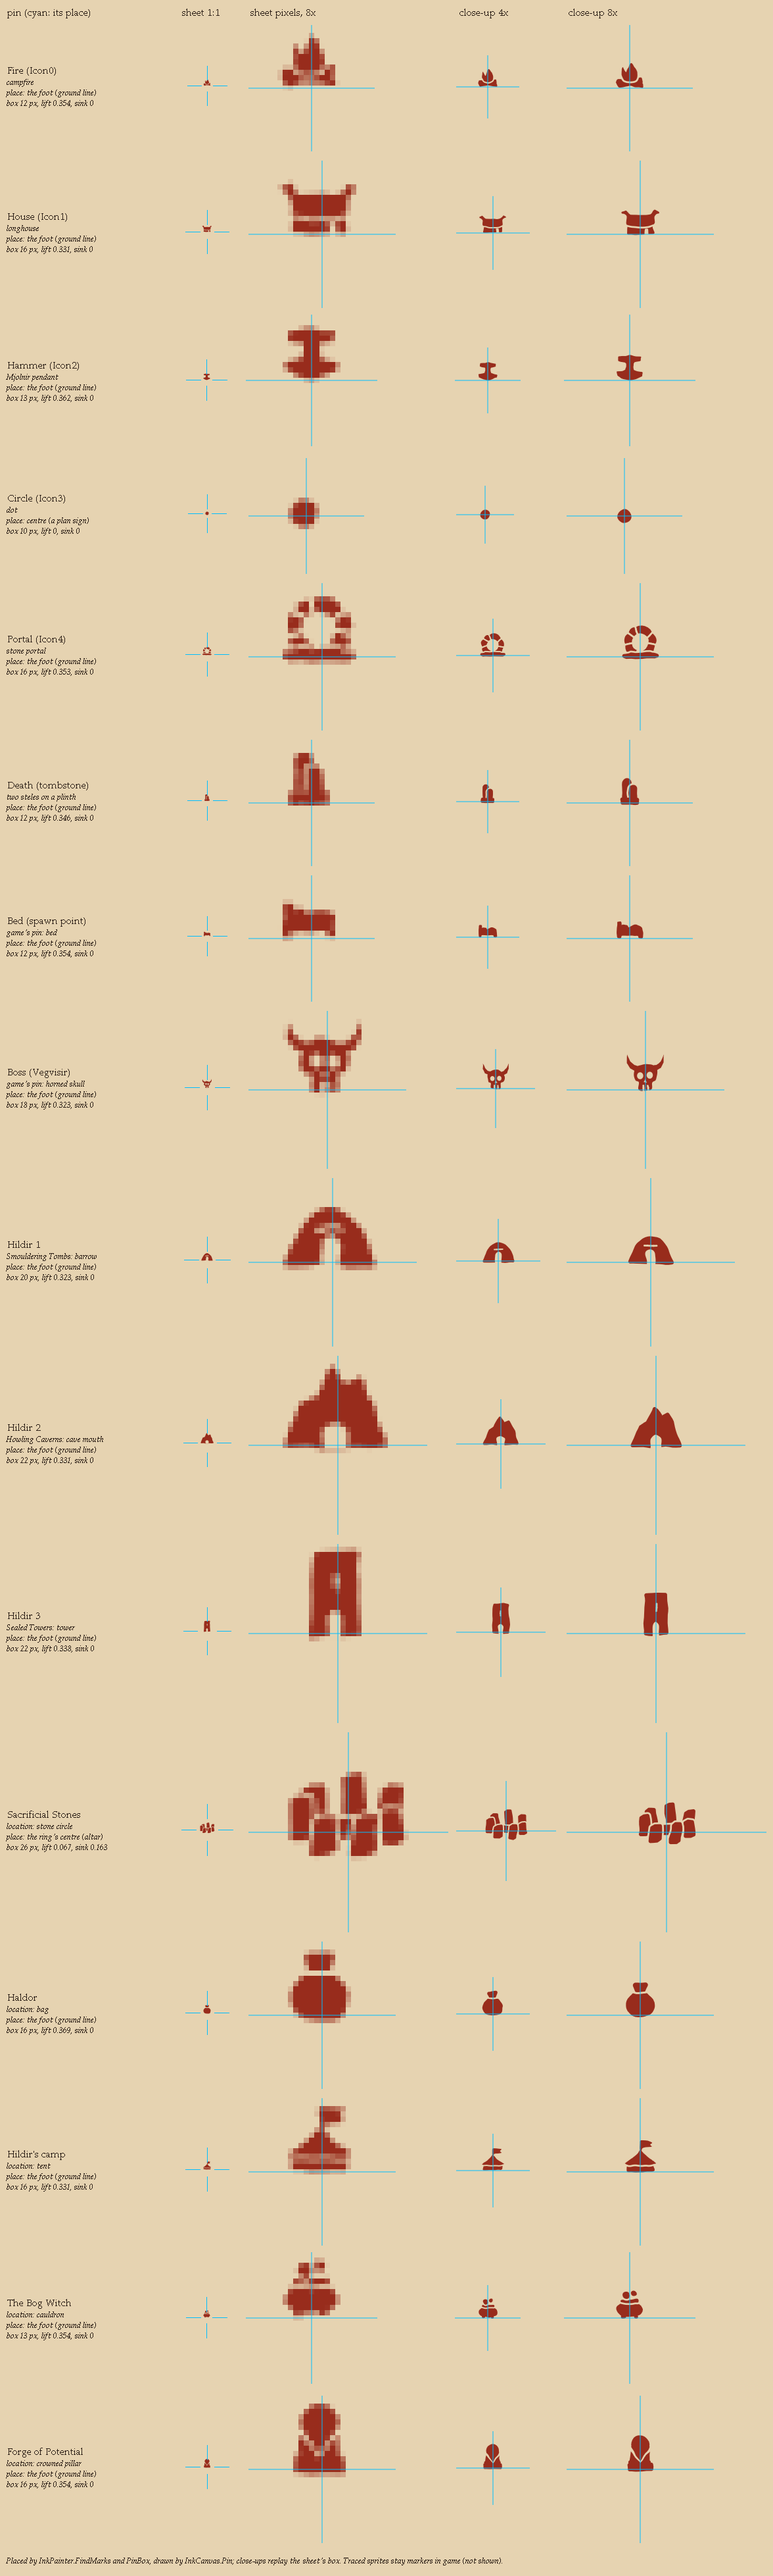
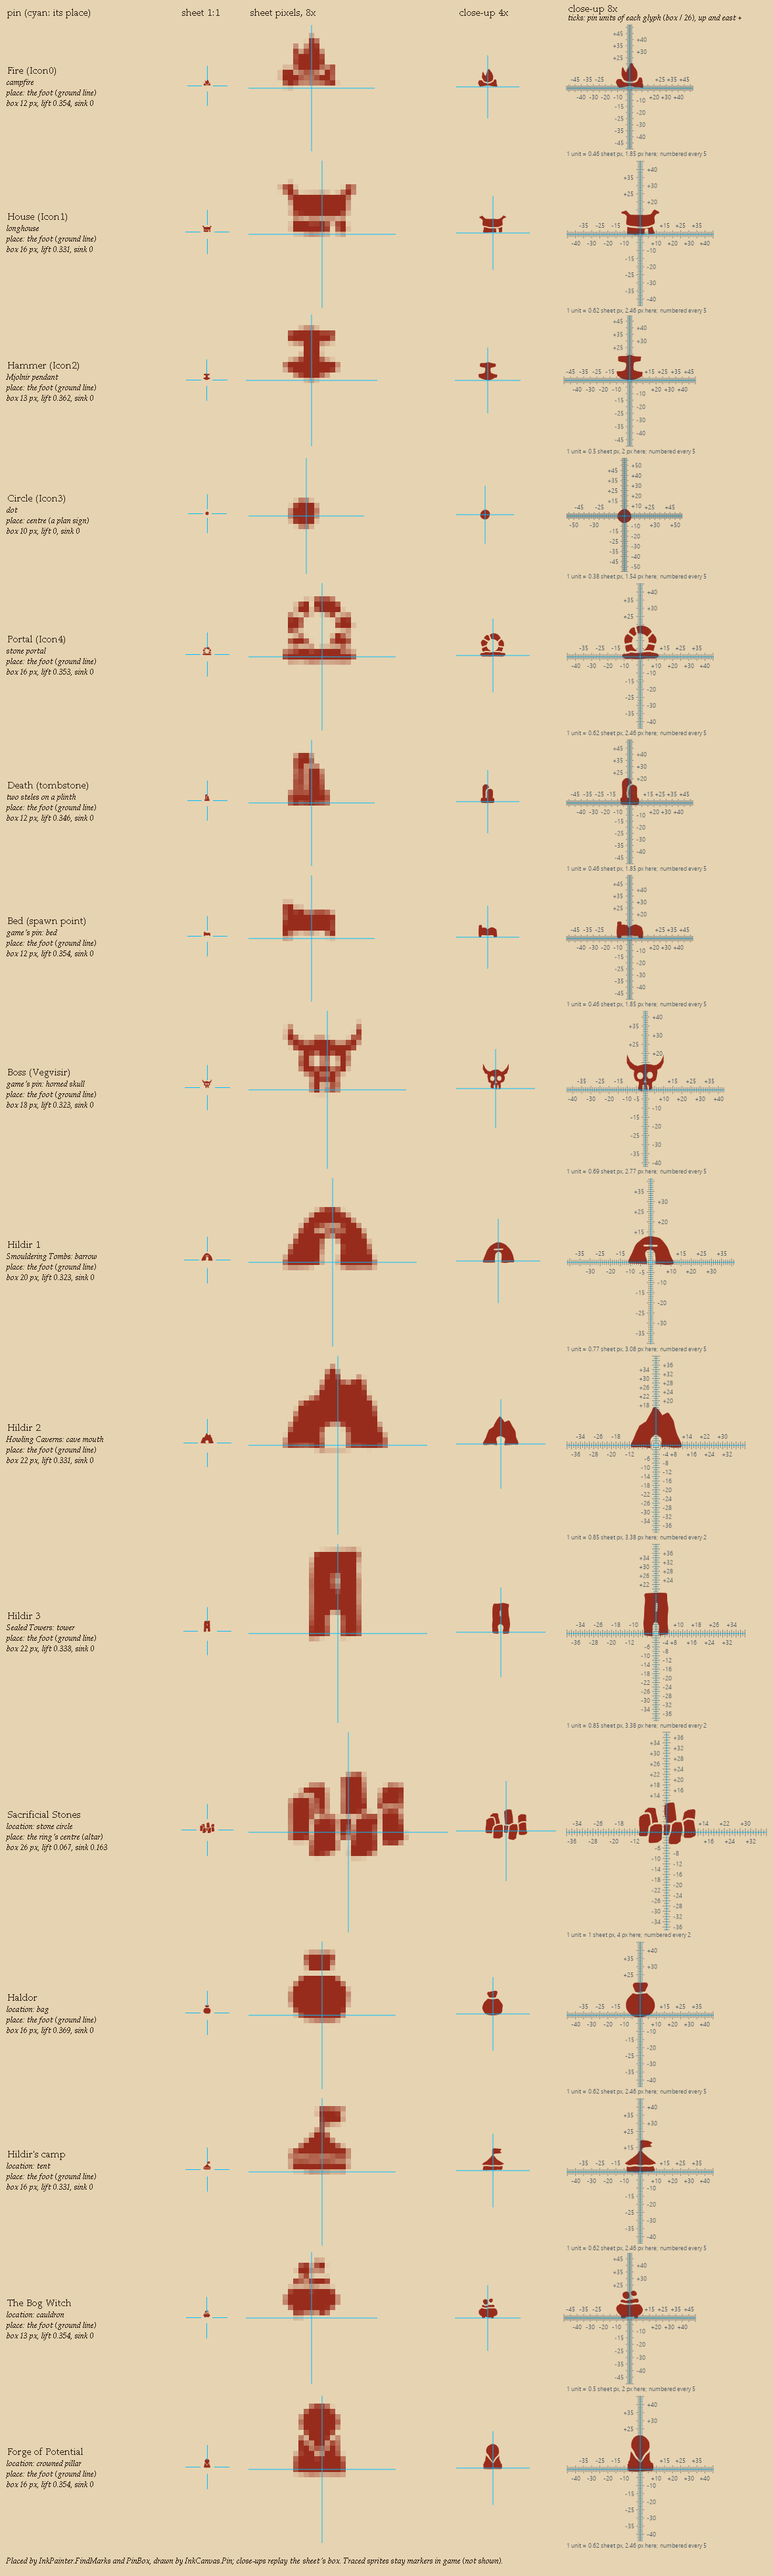
Add pin-unit rulers to the pin reference's close-up column
The close-up 8x column of the pin reference board gets graduated ticks
along both crosshair lines at every pin unit of each glyph, numbered with
signs (up and east +) and the scale given per row, so a shift can be
named in the glyph's own units. Preview only.

Changed region(s): [[0.7347, 0.0, 0.8878, 0.7481], [0.7347, 0.7481, 0.8878, 0.9974]]

diff --git a/tools/preview/Program.cs b/tools/preview/Program.cs
@@ -1,4 +1,5 @@
 using System;
+using System.Collections.Generic;
 using System.Diagnostics;
 using System.Drawing;
 using System.Drawing.Imaging;
@@ -601,6 +602,20 @@ internal static class Program
     // The pin location mark (--pinref, --pincross): a cyan that no ink or wash of the map uses.
     static readonly Color32 s_crossColour = new Color32(0, 190, 255, 255);
 
+    // The pin-unit ruler on --pinref's 8x close-up crosshair: a slate grey, half strength, so
+    // the red glyph and the cyan cross stay readable under it.
+    static readonly Color32 s_tickColour = new Color32(50, 70, 90, 255);
+    const float TickAlpha = 0.55f;
+
+    // A number on the pin-unit ruler, at (x, y) on the board: side 0 centred under, 1 centred
+    // over, 2 left-aligned beside, 3 right-aligned beside the point.
+    struct TickLabel
+    {
+        public float m_x, m_y;
+        public string m_text;
+        public int m_side;
+    }
+
     // A crosshair on (x, y) in continuous output pixels (pixel i spans i to i + 1, y down): two
     // lines width pixels wide, each pixel covered by its overlap with the line, from gap to
     // reach either side of the point. plot(column, row, coverage) blends one pixel.
@@ -713,6 +728,31 @@ internal static class Program
         }
         void Cross(float x, float y, float gap, float reach) =>
             Crosshair((i, j, a) => Blend(i, j, s_crossColour, a), x, y, gap, reach, 1f);
+        // A 1 px tick across a crosshair line, at continuous x (a vertical tick, from y0 to y1)
+        // or continuous y (a horizontal one), split over the two pixels it straddles.
+        void Tick(bool vertical, float at, float from, float to)
+        {
+            float l = at - 0.5f;
+            int i = (int)Math.Floor(l);
+            float f = l - i;
+            for (int j = (int)Math.Round(from); j < (int)Math.Round(to); j++)
+            {
+                if (vertical)
+                {
+                    Blend(i, j, s_tickColour, TickAlpha * (1f - f));
+                    Blend(i + 1, j, s_tickColour, TickAlpha * f);
+                }
+                else
+                {
+                    Blend(j, i, s_tickColour, TickAlpha * (1f - f));
+                    Blend(j, i + 1, s_tickColour, TickAlpha * f);
+                }
+            }
+        }
+        float pinUnits = Convert.ToSingle(glyphs.GetField("PinUnits", All).GetValue(null));
+        var labels = new List<TickLabel>();
+        var rulers = new string[rows.Length];
+        var rulerTops = new int[rows.Length];
 
         var notes = new string[rows.Length][];
         for (int r = 0; r < rows.Length; r++)
@@ -754,13 +794,77 @@ internal static class Program
             {
                 int scale = closeUps[k];
                 object canvas = canvasNew.Invoke(new object[] { d * scale, d * scale, left, north, (float)scale });
-                Set(canvas, "m_penScale", 1f / Mathf.Sqrt(Mathf.Max(1f, scale * 0.5f)));
+                float penScale = 1f / Mathf.Sqrt(Mathf.Max(1f, scale * 0.5f));
+                Set(canvas, "m_penScale", penScale);
                 pinOn.Invoke(canvas, new object[] { glyph, placed.x, placed.y, placed.z, false });
                 int cx = k == 0 ? c3 : c4, cy = y0 + (d * magnify - d * scale) / 2;
                 Lay(canvas, cx, cy, 1);
                 float qx = (px - left) * scale, qy = (py - north) * scale;
                 Cross(cx + qx, cy + qy, 0f, d * scale * 0.5f);
                 if (k != closeUps.Length - 1) continue;
+                // The pin-unit ruler: InkCanvas.Pin draws the glyph's PinUnits square into
+                // round(size * pen scale * scale) pixels, so that over PinUnits is one unit here.
+                // Ticks every unit (every quarter where those stay 3 px apart), a long tick and a
+                // number every label step, the smallest of 1, 2, 5, 10 at least 6.5 px apart
+                // (numbers alternate sides of the line, so a side's stay apart twice that).
+                int pixels = Math.Max(4, Mathf.RoundToInt(placed.z * penScale * scale));
+                float unit = pixels / pinUnits;
+                int step = 10;
+                foreach (int s in new[] { 1, 2, 5, 10 })
+                    if (s * unit >= 6.5f)
+                    {
+                        step = s;
+                        break;
+                    }
+                float ox0 = cx + qx, oy0 = cy + qy, span = d * scale * 0.5f;
+                int quarters = unit * 0.25f >= 3f ? 4 : 1;
+                var rowLabels = new List<Rect>();
+                for (int q = -(int)(span / unit * quarters); q <= (int)(span / unit * quarters); q++)
+                {
+                    if (q == 0) continue;
+                    float off = q * unit / quarters;
+                    bool whole = q % quarters == 0;
+                    int at = q / quarters;
+                    bool labelled = whole && at % step == 0;
+                    float len = labelled ? 6f : whole ? 3f : 1.5f;
+                    // Across the level line (x right) and the upright one (y down, so up is +at).
+                    Tick(true, ox0 + off, oy0 - 0.5f - len, oy0 - 0.5f);
+                    Tick(true, ox0 + off, oy0 + 0.5f, oy0 + 0.5f + len);
+                    Tick(false, oy0 - off, ox0 - 0.5f - len, ox0 - 0.5f);
+                    Tick(false, oy0 - off, ox0 + 0.5f, ox0 + 0.5f + len);
+                    if (!labelled || Math.Abs(off) > span - 8f) continue;
+                    bool flip = (at / step) % 2 != 0;
+                    string text = at.ToString("+0;-0", System.Globalization.CultureInfo.InvariantCulture);
+                    float wide = 5f * text.Length;
+                    float lx = ox0 + off, ly = flip ? oy0 - 7f : oy0 + 7f;
+                    TryLabel(new Rect(lx - wide * 0.5f, flip ? ly - 10f : ly, wide, 10f), lx, ly, text, flip ? 1 : 0);
+                    lx = flip ? ox0 - 8f : ox0 + 8f;
+                    ly = oy0 - off;
+                    TryLabel(new Rect(flip ? lx - wide : lx, ly - 5f, wide, 10f), lx, ly, text, flip ? 3 : 2);
+                }
+                // A number over the glyph's ink would hide what it measures, one across the other
+                // line or another number would read as one: each is left out there.
+                void TryLabel(Rect box, float x, float y, string text, int side)
+                {
+                    if (box.xMin < ox0 + 2f && box.xMax > ox0 - 2f) return;
+                    if (box.yMin < oy0 + 2f && box.yMax > oy0 - 2f) return;
+                    foreach (Rect other in rowLabels)
+                        if (other.Overlaps(new Rect(box.x - 2f, box.y - 1f, box.width + 4f, box.height + 2f))) return;
+                    if (!ClearOfInk(box.xMin, box.yMin, box.xMax, box.yMax)) return;
+                    rowLabels.Add(box);
+                    labels.Add(new TickLabel { m_x = x, m_y = y, m_text = text, m_side = side });
+                }
+                bool ClearOfInk(float x0, float y0, float x1, float y1)
+                {
+                    var plane = (byte[])Get(canvas, "m_pinInk");
+                    int side = d * scale;
+                    for (int y = (int)Math.Floor(y0 - cy) - 1; y <= (int)Math.Ceiling(y1 - cy) + 1; y++)
+                        for (int x = (int)Math.Floor(x0 - cx) - 1; x <= (int)Math.Ceiling(x1 - cx) + 1; x++)
+                            if (x >= 0 && y >= 0 && x < side && y < side && plane[y * side + x] > 24) return false;
+                    return true;
+                }
+                rulerTops[r] = cy + d * scale;
+                rulers[r] = FormattableString.Invariant($"1 unit = {box / pinUnits:0.##} sheet px, {unit:0.##} px here; numbered every {step}");
                 // The ink's extent round the place, in this close-up's pixels: the lowest inked
                 // row (the foot's outline) below it, the box of the ink's columns about it.
                 var ink = (byte[])Get(canvas, "m_pinInk");
@@ -809,7 +913,26 @@ internal static class Program
                 g.DrawString("sheet 1:1", font, ink, c1 + 4, 8);
                 g.DrawString("sheet pixels, 8x", font, ink, c2 + 4, 8);
                 g.DrawString("close-up 4x", font, ink, c3 + 4, 8);
-                g.DrawString("close-up 8x", font, ink, c4 + 4, 8);
+                g.DrawString("close-up 8x", font, ink, c4 + 4, 2);
+                g.DrawString("ticks: pin units of each glyph (box / 26), up and east +", small, ink, c4 + 4, 18);
+                using (var digits = new System.Drawing.Font("Segoe UI", 9f, GraphicsUnit.Pixel))
+                using (var tick = new SolidBrush(System.Drawing.Color.FromArgb(220, s_tickColour.r, s_tickColour.g, s_tickColour.b)))
+                using (var under = new StringFormat { Alignment = StringAlignment.Center, LineAlignment = StringAlignment.Near })
+                using (var over = new StringFormat { Alignment = StringAlignment.Center, LineAlignment = StringAlignment.Far })
+                using (var east = new StringFormat { Alignment = StringAlignment.Near, LineAlignment = StringAlignment.Center })
+                using (var west = new StringFormat { Alignment = StringAlignment.Far, LineAlignment = StringAlignment.Center })
+                {
+                    var formats = new[] { under, over, east, west };
+                    foreach (TickLabel l in labels) g.DrawString(l.m_text, digits, tick, l.m_x, l.m_y, formats[l.m_side]);
+                    // On a patch of parchment: the next row's crosshair reaches a little above its cell.
+                    using (var plain = new SolidBrush(System.Drawing.Color.FromArgb(paper.r, paper.g, paper.b)))
+                        for (int r = 0; r < rows.Length; r++)
+                        {
+                            SizeF size = g.MeasureString(rulers[r], digits);
+                            g.FillRectangle(plain, c4 + 2, rulerTops[r] + 1, size.Width, size.Height);
+                            g.DrawString(rulers[r], digits, tick, c4 + 2, rulerTops[r] + 1);
+                        }
+                }
                 for (int r = 0; r < rows.Length; r++)
                 {
                     int y = (rowTops[r] + rowTops[r + 1] - pad) / 2 - 34;

diff --git a/CLAUDE.md b/CLAUDE.md
@@ -1265,7 +1265,8 @@ Stack, build, verification and git workflow are shared by all mods: see `../CLAU
   catalogue, 29 the pin reference, 30 the sea mark catalogue
   (`Preview --seacat`). Pin places: `Preview --pinref <png>` draws every pen-drawn glyph (all
   `PinGlyphs` kinds but `Traced`) on plain parchment with a 1 px cyan crosshair on its place:
-  the sheet 1:1, its pixels 8x, a 4x and an 8x close-up. Each is placed by the painter's own
+  the sheet 1:1, its pixels 8x, a 4x and an 8x close-up, whose cross carries a ruler in the
+  glyph's own pin units (box / `PinUnits`, as `InkCanvas.Pin` draws it there). Each is placed by the painter's own
   `FindMarks`, `DrawGlyph` and `PinBox` (`Lift`, `Sink`) at level of detail 1, and the close-ups
   replay that box through `InkCanvas.Pin` as `InkRecord.Replay` does, so the cross shows the
   drawing's truth: the foot of elevation glyphs, the dot's centre, the Stones' altar. It prints
